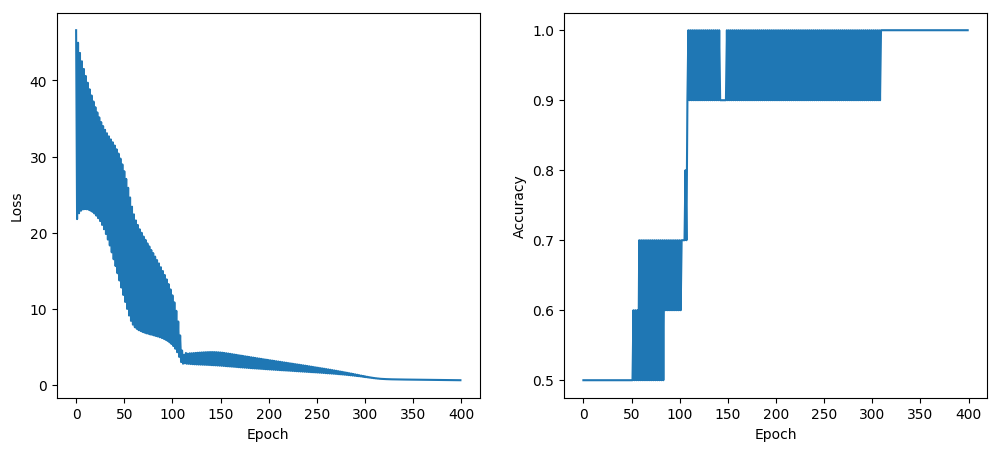
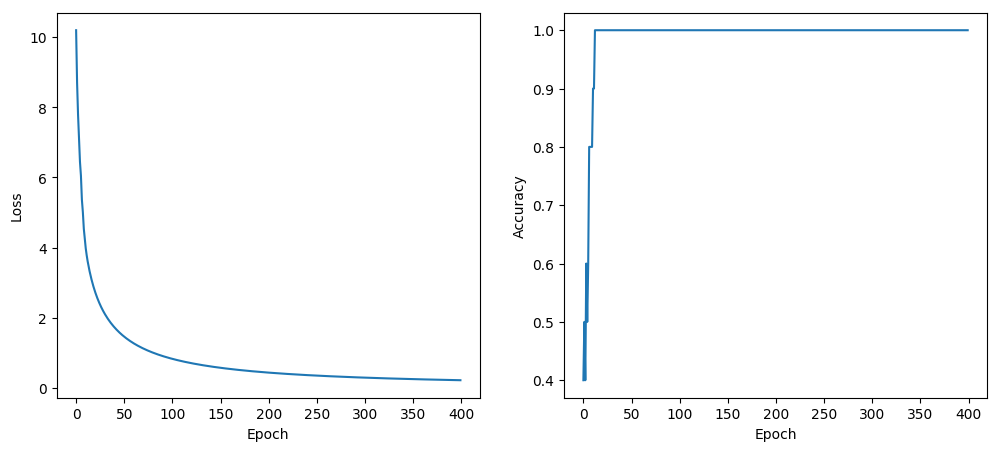
Update post and chg plot

diff --git a/_posts/2019-08-25-flux-embeddings-tutorial-2.md b/_posts/2019-08-25-flux-embeddings-tutorial-2.md
@@ -169,13 +169,13 @@ The next block of code initializes a random embedding matrix as per the size of 
 ```julia
 embedding_matrix=Flux.glorot_normal(max_features, vocab_size)
 ```
-Now we overwrite the random embedding matrix with our word vectors from GloVe. The word vectors are inserted as columns as per the index from word_dict.  After this has run any missing words will retain their random values and should not adversely affect the training.
+Now we overwrite the random embedding matrix with our word vectors from GloVe. The word vectors are inserted as columns as per the index from word_dict plus 1.  The reason we add 1 is so that 0 can represent a zero-word that has been padded.
 
 
 ```julia
 for term in doc_term_matrix.terms
     if vec_idx(term)!=0
-        embedding_matrix[:,word_dict[term]]=wvec(term)
+        embedding_matrix[:,word_dict[term]+1]=wvec(term)
     end
 end   
 ```
@@ -215,7 +215,7 @@ As this is a binary (1 or 0) classification problem we need to use binarycrossen
 
 ```julia
 loss(x, y) = sum(Flux.binarycrossentropy.(m(x), y))
-optimizer = Flux.Descent(0.01)
+optimizer = Flux.Descent(0.001)
 ```
 
 Train the model
